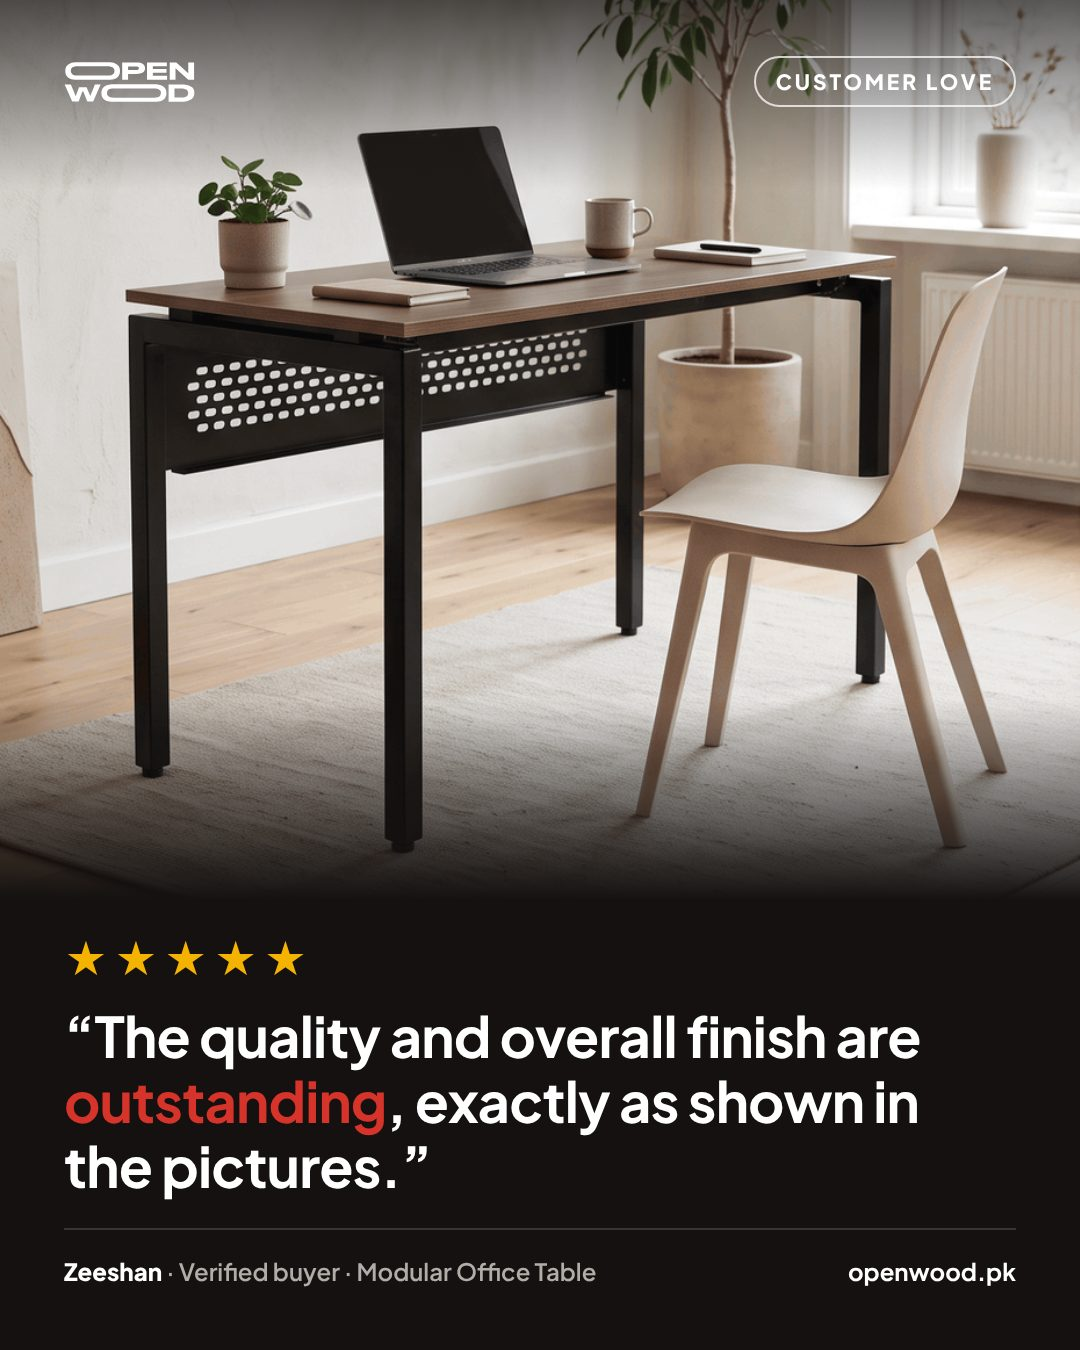
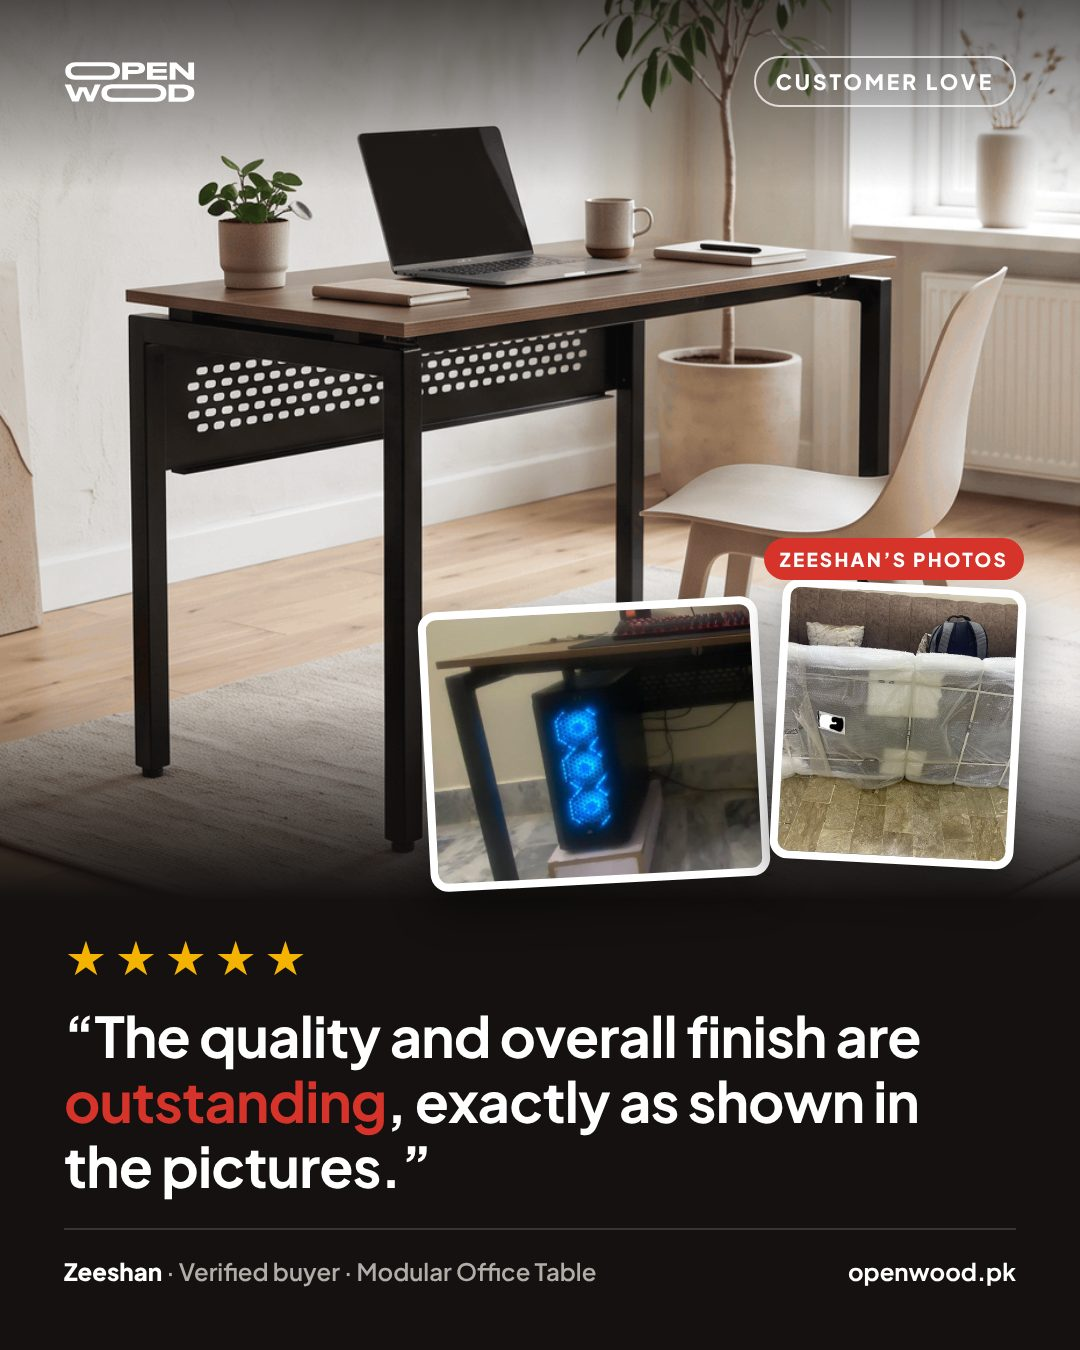
Review poster 08 with customer photo collage; add review-photo and image rotation rules
Claude-Session: https://claude.ai/code/session_01RtqcKhuT7bm3hvkBdcGXQW

Changed region(s): [[0.3667, 0.3733, 0.9778, 0.6844]]

diff --git a/kit/gen_2026-11-16.py b/kit/gen_2026-11-16.py
@@ -60,9 +60,15 @@ blockquote em{font-style:normal;color:var(--red)}
 .by{margin-top:30px;padding-top:26px;border-top:2px solid rgba(244,239,232,.16);display:flex;justify-content:space-between;align-items:center;font-size:24px;font-weight:600;color:rgba(244,239,232,.7)}
 .by b{color:#fff}
 .by .url{color:#fff}
+.cp{position:absolute;right:56px;top:560px;width:600px;height:340px}
+.cp i{position:absolute;width:280px;height:280px;border:8px solid #fff;border-radius:18px;box-shadow:0 18px 40px rgba(0,0,0,.45);background-repeat:no-repeat}
+.cp .a{left:0;top:44px;width:340px;transform:rotate(-3deg);background-image:url(reviews/modular-office-table/zeeshanghanchi-02.jpeg);background-size:678px auto;background-position:0 -186px}
+.cp .b{left:352px;top:24px;width:244px;transform:rotate(3deg);background-image:url(reviews/modular-office-table/zeeshanghanchi-01.jpeg);background-size:cover;background-position:50% 50%}
+.cp span{position:absolute;right:0;top:-22px;font-size:19px;font-weight:800;letter-spacing:.12em;text-transform:uppercase;background:var(--red);color:#fff;padding:9px 16px;border-radius:999px;z-index:2}
 """, f"""
 <div class="ph"></div>
 <div class="top"><div class="logo w">{LOGO}</div><div class="pill">Customer love</div></div>
+<div class="cp"><span>Zeeshan&rsquo;s photos</span><i class="a"></i><i class="b"></i></div>
 <div class="q">
  <div class="stars">★★★★★</div>
  <blockquote>&ldquo;The quality and overall finish are <em>outstanding</em>, exactly as shown in the pictures.&rdquo;</blockquote>

diff --git a/kit/README.md b/kit/README.md
@@ -15,6 +15,8 @@ Everything the weekly posting task needs. Posters are 1080x1350 PNG/JPG feed ima
 - Captions: short hook, 2–4 benefit lines, "🛒 openwood.pk", Cash on Delivery line when useful, 6–9 hashtags incl. #openwood. No prices unless it's a price-hook post.
 - Assembly visuals: show the golden threaded screw inserts where screws go into wood.
 - Never use copyrighted characters/brands in designs.
+- **Review posts (from Usman, 15 Nov 2026):** always show the customer's own uploaded photos as a collage of tiles laid over the main product image (see poster 08 in `gen_2026-11-16.py`, `.cp` styles). Photos are in `reviews/<product-slug>/<author>-NN.jpg` (index: `reviews/reviews.json`, refreshed by the same workflow). Prefer reviews that have photos; use only the quoted reviewer's photos; Read each photo first and crop out anything unsuitable (faces, address labels, copyrighted characters on screens). If the reviewer uploaded no photos, pick another review that has them where possible.
+- **Different image every time (from Usman, 15 Nov 2026):** every poster must use a product gallery image that has never been used before (check `posting-log.md`), and no two posters in the same week may share an image. This applies to review posts' main image too.
 
 ## Publishing pipeline
 1. Render posters to `posters/YYYY-MM/` (JPG, quality ~80).

diff --git a/posting-log.md b/posting-log.md
@@ -10,4 +10,4 @@
 | 2026-11-17 | Photo | Wall range (shelf, keys, clothes hanger) | Small space, go vertical | posters/2026-11/05-go-vertical-wall-range.jpg | kit/img (legacy) |
 | 2026-11-19 | Photo | Under Desk Cable Tray | Hide cable chaos | posters/2026-11/06-cable-tray.jpg | kit/img (legacy) |
 | 2026-11-16 | Photo | Kids Study Desk | Kids range: a desk of their own | posters/2026-11/07-kids-study-desk.jpg | kit/products/kids-study-desk/01.png |
-| 2026-11-21 | Photo | Modular Office Table | Customer review (Zeeshan, 5★, review 68003) | posters/2026-11/08-review-modular-office-table.jpg | kit/products/modular-office-table/04.png |
+| 2026-11-21 | Photo | Modular Office Table | Customer review (Zeeshan, 5★, review 68003) | posters/2026-11/08-review-modular-office-table.jpg | kit/products/modular-office-table/04.png + customer photos kit/reviews/modular-office-table/zeeshanghanchi-01.jpeg, zeeshanghanchi-02.jpeg |
